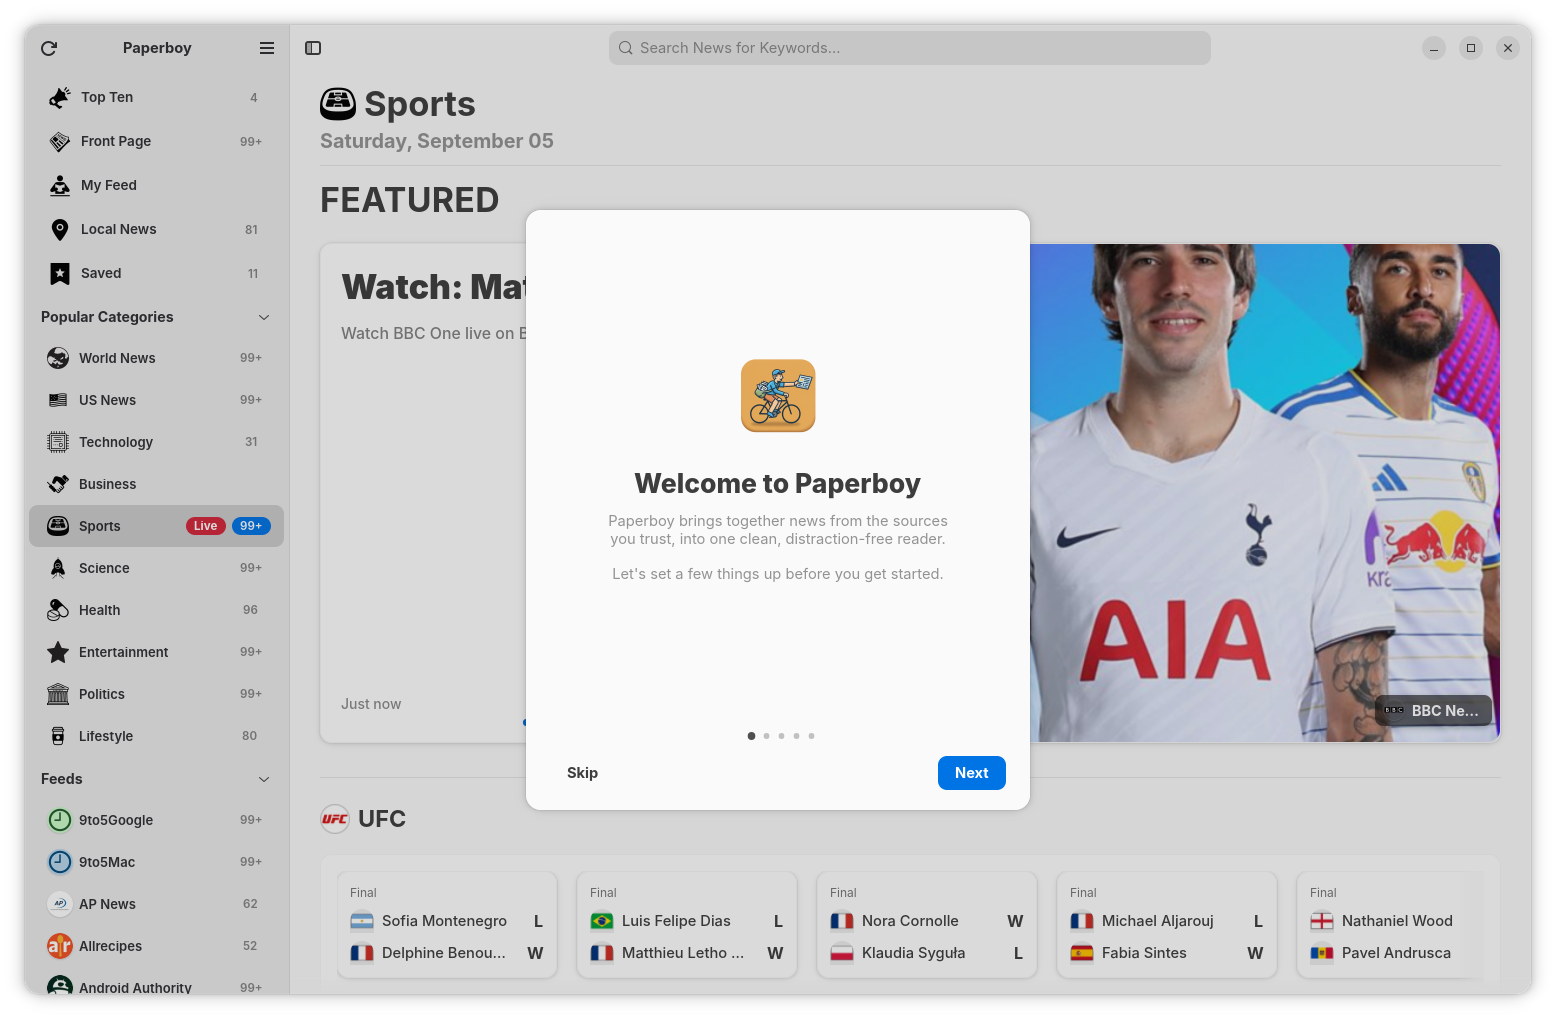
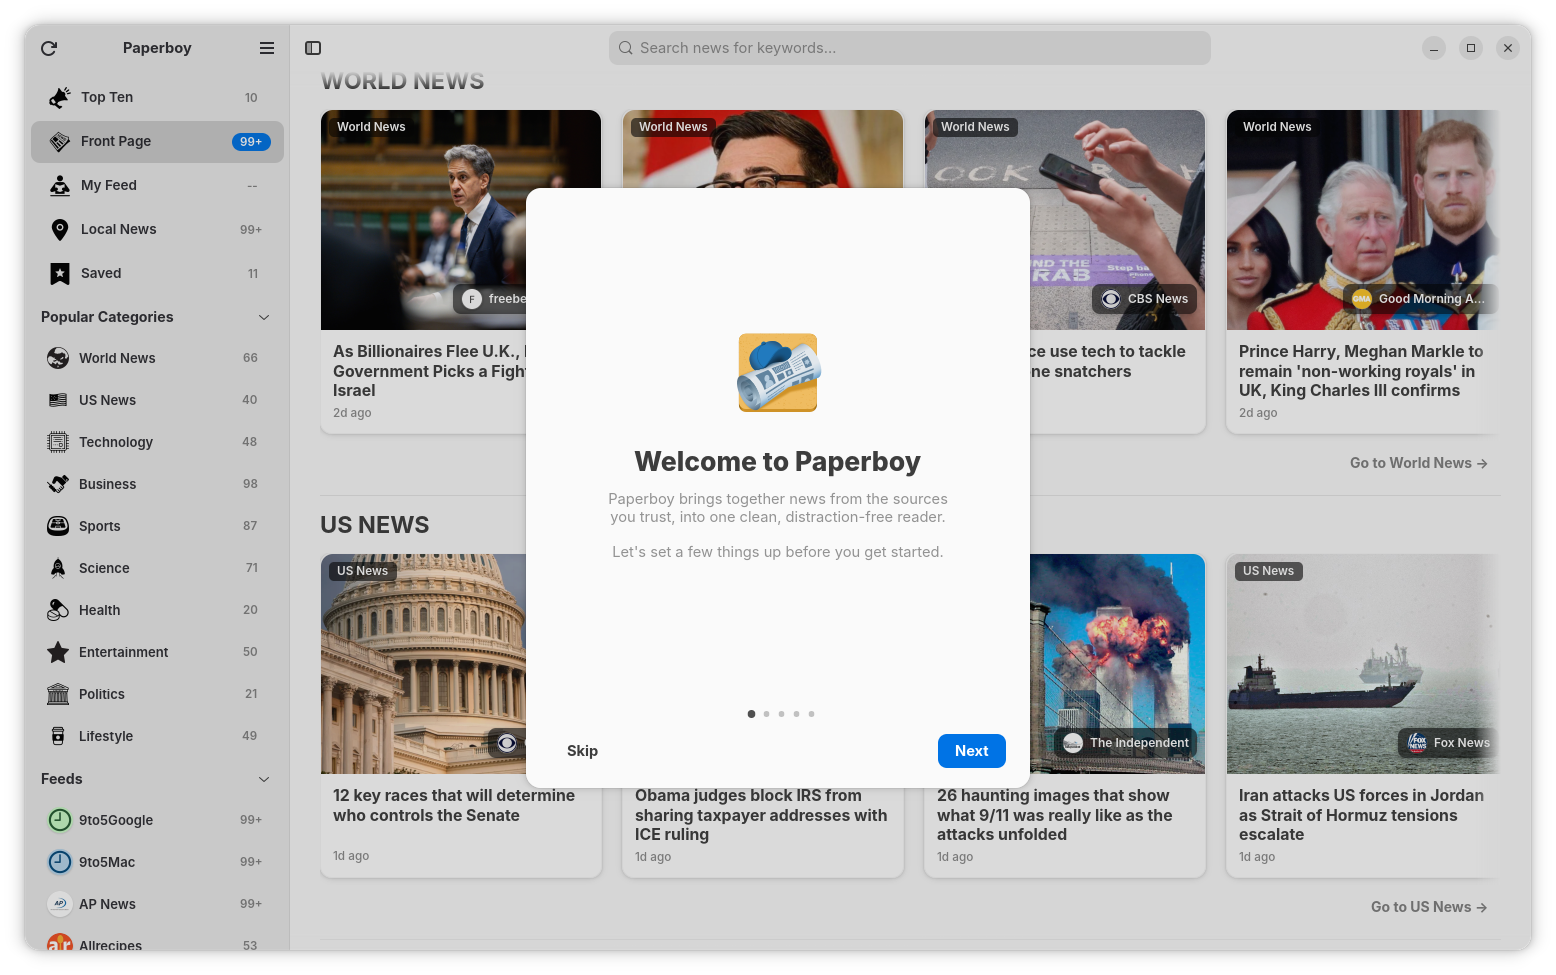
update README and screenshots

diff --git a/README.md b/README.md
@@ -15,6 +15,10 @@
 ![Alt text](https://github.com/thecalamityjoe87/paperboy/blob/main/images/screenshot8.png "Optional Title")
 ![Alt text](https://github.com/thecalamityjoe87/paperboy/blob/main/images/screenshot9.png "Optional Title")
 ![Alt text](https://github.com/thecalamityjoe87/paperboy/blob/main/images/screenshot10.png "Optional Title")
+![Alt text](https://github.com/thecalamityjoe87/paperboy/blob/main/images/screenshot11.png "Optional Title")
+![Alt text](https://github.com/thecalamityjoe87/paperboy/blob/main/images/screenshot12.png "Optional Title")
+![Alt text](https://github.com/thecalamityjoe87/paperboy/blob/main/images/screenshot13.png "Optional Title")
+![Alt text](https://github.com/thecalamityjoe87/paperboy/blob/main/images/screenshot14.png "Optional Title")
 
 ## About
 A simple news app written in Vala, built with GTK4 and Libadwaita. My motivation for building this app because I wanted to have a simple, but beautiful native GTK4 news application similar to Apple News. Feel free to test, change, and contribute back to this project.
